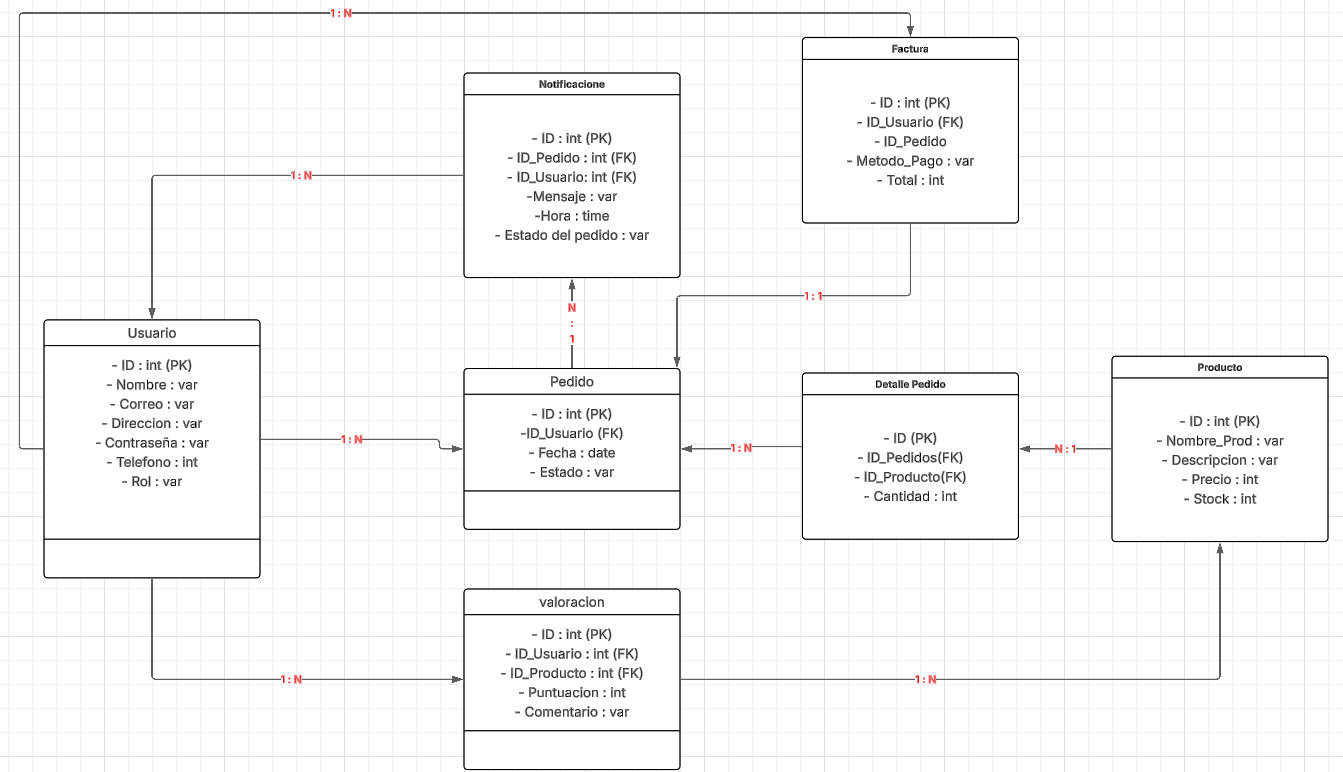
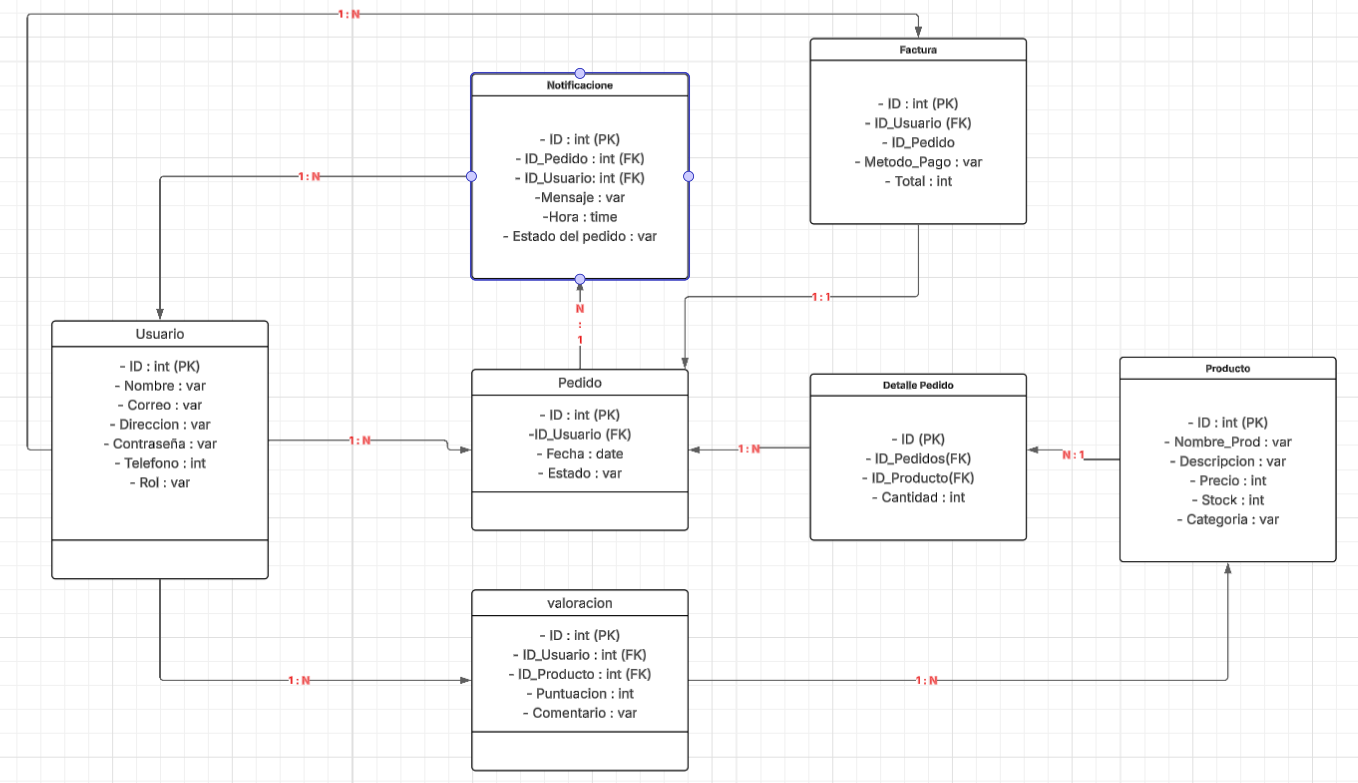
Agregado codigo TP6

diff --git a/backend/main/resources/usuario.py b/backend/main/resources/usuario.py
@@ -1,18 +1,33 @@
 from flask_restful import Resource
-from flask import request
+from flask import request, jsonify
 from sqlalchemy import desc
 from ..models import UsuarioModel
+from flask_jwt_extended import jwt_required, get_jwt_identity, get_jwt
+from main.auth.decorators import role_required
 from .. import db
 
 
 # Recurso individual
 class UsuarioRecurso(Resource):
-    def get(self, id):
-        usuario = db.session.query(UsuarioModel).get(id)
-        if usuario:
-            return usuario.to_json()
-        return {"mensaje": "Usuario no encontrado"}, 404
+    @jwt_required(optional=True)
+    # Crear recurso usuario
+    @jwt_required()
+    def get(self):
 
+        correo = request.args.get("correo", None)
+        rol = request.args.get("rol", None)
+
+        query = UsuarioModel.query
+
+        if correo:
+            query = query.filter(UsuarioModel.correo.like(f"%{correo}%"))
+
+        if rol:
+            query = query.filter(UsuarioModel.rol == rol)
+
+
+    # Editar recurso usuario con autenticación
+    @jwt_required()
     def put(self, id):
         usuario = db.session.query(UsuarioModel).get(id)
         if not usuario:
@@ -20,28 +35,40 @@ class UsuarioRecurso(Resource):
 
         data = request.get_json()
 
+    # Actualiza solo si hay datos nuevos, conserva lo anterior si no viene algo
         usuario.nombre = data.get("nombre", usuario.nombre)
         usuario.correo = data.get("correo", usuario.correo)
         usuario.direccion = data.get("direccion", usuario.direccion)
         usuario.contraseña = data.get("contraseña", usuario.contraseña)
-        usuario.telefono = data.get("Telefono", usuario.telefono)
-        usuario.rol = data.get("Rol", usuario.rol)
+        usuario.telefono = data.get("telefono", usuario.telefono)
+        usuario.rol = data.get("rol", usuario.rol)
+
+    # Si viene una nueva contraseña, la hasheo usando el setter
+        if "contraseña" in data:
+            usuario.plain_contraseña = data["contraseña"]
 
         db.session.commit()
         return {"mensaje": "Usuario actualizado"}, 200
 
+    
+    @role_required(roles=["administrador", "empleado"])
+    # Elimina recurso usuario
     def delete(self, id):
-        usuario = db.session.query(UsuarioModel).get(id)
-        if not usuario:
-            return {"mensaje": "Usuario no encontrado"}, 404
-
+        usuario = db.session.query(UsuarioModel).get_or_404(id)
+        rol = get_jwt().get("rol")
+        
+        # Si el rol es 'empleado', solo puede eliminar su propio usuario
+        if rol == "empleado" and usuario.id != get_jwt_identity():
+            return {"mensaje": "No tiene permisos para eliminar este recurso"}, 403
+        
         db.session.delete(usuario)
         db.session.commit()
-        return {"mensaje": "Usuario eliminado"}, 200
+        return '', 204
 
 
 # Recurso plural
 class UsuariosRecursos(Resource):
+    @role_required(roles = ["administrador"])
     def get(self):
         # Paginación
         page = request.args.get("page", 1, type=int)
@@ -82,18 +109,22 @@ class UsuariosRecursos(Resource):
         return [usuario.to_json() for usuario in paginated.items]
 
     def post(self):
+    
         data = request.get_json()
 
-        nuevo_usuario = UsuarioModel(
+        usuario = UsuarioModel(
             nombre=data.get("nombre"),
             correo=data.get("correo"),
             direccion=data.get("direccion"),
-            contraseña=data.get("contraseña"),
-            telefono=data.get("Telefono"),
-            rol=data.get("Rol")
+            telefono=data.get("telefono"),
+            rol=data.get("rol")
         )
 
-        db.session.add(nuevo_usuario)
+
+# Usar el setter para que se guarde la contraseña hasheada
+        usuario.plain_contraseña = data.get("contraseña")
+
+        db.session.add(usuario)
         db.session.commit()
-        return nuevo_usuario.to_json(), 201
+        return usuario.to_json(), 201
 

diff --git a/backend/main/models/usuario.py b/backend/main/models/usuario.py
@@ -1,19 +1,24 @@
+
 from .. import db
+from datetime import timedelta
+from werkzeug.security import generate_password_hash, check_password_hash
 
 class UsuarioModel(db.Model):
-    __tablename__ = 'usuarios'
+    __tablename__ = "usuarios"
 
     id = db.Column(db.Integer, primary_key=True)
-    nombre = db.Column(db.String(100))
-    correo = db.Column(db.String(100))
-    direccion = db.Column(db.String(100))
-    contraseña = db.Column(db.String(100))
-    telefono = db.Column(db.BigInteger)
-    rol = db.Column(db.String(50))
-    valoraciones = db.relationship("ValoracionModel", back_populates="usuario", cascade="all, delete-orphan")
-    pedidos = db.relationship("PedidoModel", back_populates="usuario", cascade="all, delete-orphan")
-    notificaciones = db.relationship("NotificacionModel", back_populates="usuario", cascade="all, delete-orphan")
-    facturas = db.relationship("FacturaModel", back_populates="usuario", cascade="all, delete-orphan")
+    nombre = db.Column(db.String(100), nullable=False)
+    correo = db.Column(db.String(100), unique=True, nullable=False)
+    direccion = db.Column(db.String(200))
+    telefono = db.Column(db.String(20))
+    contraseña = db.Column(db.String(255), nullable=False)
+    rol = db.Column(db.String(20), nullable=False)
+
+    pedidos = db.relationship("PedidoModel", back_populates="usuario", lazy='dynamic')
+    valoraciones = db.relationship('ValoracionModel', back_populates='usuario')
+    notificaciones = db.relationship('NotificacionModel', back_populates='usuario')
+    facturas = db.relationship('FacturaModel', back_populates='usuario')
+
 
     def to_json(self):
         return {
@@ -21,7 +26,42 @@ class UsuarioModel(db.Model):
             "nombre": self.nombre,
             "correo": self.correo,
             "direccion": self.direccion,
-            "Contraseña": self.contraseña,
-            "Telefono": self.telefono,
-            "Rol": self.rol
+            "telefono": self.telefono,
+            "rol": self.rol
         }
+
+    def to_json_complete(self):
+        return {
+            "id": self.id,
+            "nombre": self.nombre,
+            "correo": self.correo,
+            "direccion": self.direccion,
+            "telefono": self.telefono,
+            "rol": self.rol,
+            "contraseña": self.contraseña
+        }
+
+    @property
+    def plain_contraseña(self):
+        raise AttributeError("La contraseña no es un atributo legible.")
+
+    @plain_contraseña.setter
+    def plain_contraseña(self, contraseña):
+        self.contraseña = generate_password_hash(contraseña)
+
+    def validate_pass(self, password):
+        if not self.contraseña:
+            return False
+        return check_password_hash(self.contraseña, password)
+
+    @staticmethod
+    def from_json(data):
+        usuario = UsuarioModel(
+            nombre=data.get("nombre"),
+            correo=data.get("correo"),
+            direccion=data.get("direccion"),
+            telefono=data.get("telefono"),
+            rol=data.get("rol"),
+        )
+        usuario.plain_contraseña = data.get("contraseña", "")
+        return usuario

diff --git a/backend/main/auth/routes.py b/backend/main/auth/routes.py
@@ -1,0 +1,61 @@
+from flask import request, jsonify, Blueprint
+from .. import db
+from main.models import UsuarioModel
+from flask_jwt_extended import jwt_required, get_jwt_identity, create_access_token
+
+auth = Blueprint('auth', __name__, url_prefix='/auth')
+
+@auth.route('/login', methods=['POST'])
+def login():
+    data = request.get_json()
+    correo = data.get('correo')
+    contraseña = data.get('contraseña')
+
+    if not correo or not contraseña:
+        return {'mensaje': 'Correo y contraseña son requeridos'}, 400
+
+    usuario = db.session.query(UsuarioModel).filter(UsuarioModel.correo == request.get_json().get("correo")).first()
+    if not usuario or not usuario.validate_pass(contraseña):
+        return {'mensaje': 'Correo o contraseña inválidos'}, 401
+
+    access_token = create_access_token(identity=usuario)
+    return jsonify({
+        'id': usuario.id,
+        'correo': usuario.correo,
+        'access_token': access_token
+    }), 200
+
+
+# Método de registro
+@auth.route('/register', methods=['POST'])
+def register():
+    data = request.get_json()
+
+    correo = data.get('correo')
+    if not correo:
+        return {'mensaje': 'Correo requerido'}, 400
+
+    # Verificar si el correo ya existe en la base de datos
+    exists = db.session.query(UsuarioModel).filter(UsuarioModel.correo == correo).first()
+    if exists:
+        return {'mensaje': 'Correo duplicado'}, 409
+
+    # Crear una nueva instancia de UsuarioModel
+    nuevo_usuario = UsuarioModel(
+        nombre=data.get('nombre'),
+        correo=correo,
+        direccion=data.get('direccion'),
+        telefono=data.get('telefono'),
+        rol=data.get('rol')
+    )
+
+    # Setear y hashear la contraseña
+    nuevo_usuario.plain_contraseña = data.get('contraseña')
+
+    try:
+        db.session.add(nuevo_usuario)
+        db.session.commit()
+        return nuevo_usuario.to_json(), 201
+    except Exception as error:
+        db.session.rollback()
+        return {'mensaje': f'Error al registrar usuario: {str(error)}'}, 500

diff --git a/backend/main/__init__.py b/backend/main/__init__.py
@@ -2,15 +2,21 @@ from flask import Flask
 from dotenv import load_dotenv
 from flask_restful import Api
 from flask_sqlalchemy import SQLAlchemy
+from flask_jwt_extended import JWTManager
+from datetime import timedelta
 import os
 
 
 api = Api()
 db = SQLAlchemy()
+# Iniciamos JWT
+jwt = JWTManager()
+
 
 def create_app():
-    app = Flask(__name__)
     load_dotenv()
+    app = Flask(__name__)
+    
 
     raw_path = os.getenv('DATABASE_PATH', './DB')
     db_path = os.path.abspath(raw_path)
@@ -47,10 +53,23 @@ def create_app():
     api.add_resource(resources.DetallePedidoRecurso, '/detalle_pedido', '/detalle_pedido/<int:id>')
     api.add_resource(resources.FacturasRecurso, '/facturas')
     api.add_resource(resources.FacturaRecurso, '/factura/<int:id>')
-
-
-
+    
+    
+    # Es para que la aplicación de Flask funcione como API
     api.init_app(app)
+
+
+
+    # Claves necesarias para JWT y Flask
+    app.config['SECRET_KEY'] = os.getenv('SECRET_KEY', 'clave-flask-segura')
+    app.config['JWT_SECRET_KEY'] = os.getenv('JWT_SECRET_KEY', 'clave-jwt-supersegura')
+    app.config['JWT_ACCESS_TOKEN_EXPIRES'] = timedelta(seconds=int(os.getenv('JWT_ACCESS_TOKEN_EXPIRES', 3600)))
+
+    jwt.init_app(app)
+
+    from main.auth import routes 
+    app.register_blueprint(routes.auth)
+
 
     # 👇 Crear tablas si no existen
     with app.app_context():

diff --git a/backend/main/auth/decorators.py b/backend/main/auth/decorators.py
@@ -1,0 +1,38 @@
+from .. import jwt
+from flask import jsonify
+from flask_jwt_extended import verify_jwt_in_request, get_jwt
+from functools import wraps
+
+#Decorador para restringir el acceso a usuarios por rol
+def role_required(roles):
+    def decorator(fn):
+        def wrapper(*args, **kwargs):
+            #Verificar que el JWT es correcto
+            verify_jwt_in_request()
+            #Obtener claims de adentro del JWT
+            claims = get_jwt()
+            #Verificar que el rol sea uno de los permitidos por la ruta
+            if claims['rol'] in roles :
+                #Ejecutar función
+                return fn(*args, **kwargs)
+            else:
+                return 'Rol sin permisos de acceso al recurso', 403
+        return wrapper
+    return decorator
+
+#Define el atributo que se utilizará para identificar el usuario
+@jwt.user_identity_loader
+def user_identity_lookup(usuario):
+    #Definir ID como atributo identificatorio
+    return usuario.id
+
+#Define que atributos se guardarán dentro del token
+@jwt.additional_claims_loader
+def add_claims_to_access_token(usuario):
+    claims = {
+        'rol': usuario.rol,
+        'id': usuario.id,
+        'correo': usuario.correo,
+        'contraseña' : usuario.contraseña
+    }
+    return claims

diff --git a/backend/main/models/producto.py b/backend/main/models/producto.py
@@ -24,6 +24,7 @@ class ProductoModel(db.Model):
         self.nombre = data.get("nombre", self.nombre)
         self.descripcion = data.get("descripcion", self.descripcion)
         self.precio = data.get("precio", self.precio)
+        self.categoria = data.get('precio', self.categoria)
         self.stock = data.get("stock", self.stock)
     
     detalle_pedido = db.relationship("DetallePedidoModel", back_populates="producto", cascade="all, delete-orphan")

diff --git a/backend/main/models/login.py b/backend/main/models/login.py
@@ -17,6 +17,7 @@ class UsuarioModel(db.Model):
             'nombre': self.nombre,
             'correo': self.correo,
             'direccion': self.direccion,
+            'contraseña' : self.contraseña,
             'telefono': self.telefono,
             'rol': self.rol
         }
